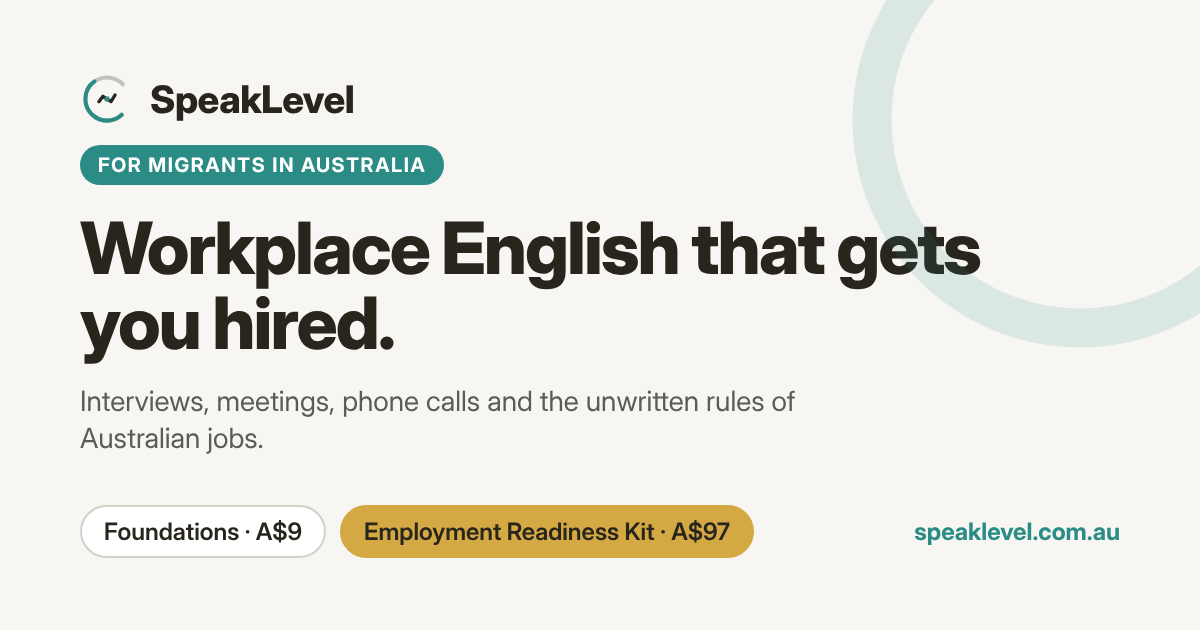
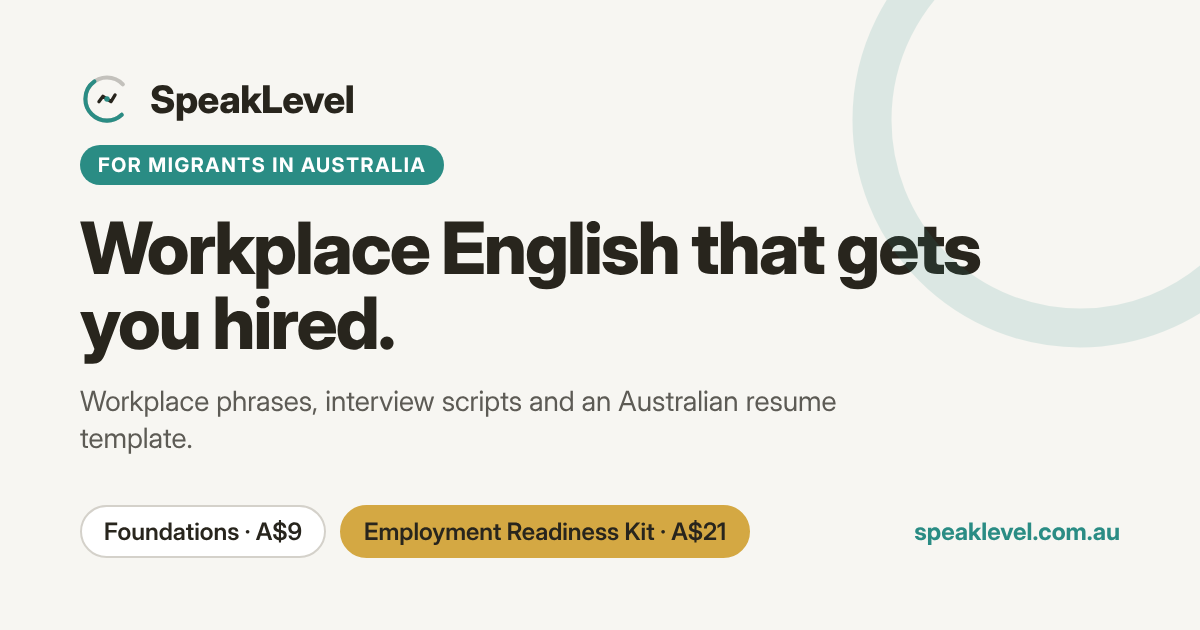
Kit price A$21; make every Kit claim match the actual PDF
- Kit price A$97 -> A$21 everywhere (buttons, chooser, pricing, schema, preview image)
- '200+ phrases' -> 50; removed slang decoder, cover letter, emails and phone-call
  claims the Kit doesn't contain; Kit page cards now mirror the PDF's sections
- Industry cards list only what the Kit covers
- Pricing comparison reframed: 'Less than one lunch break'
- Foundations: 'everyday Aussie expressions' (PDF has a short bonus, not 15)
- Softer outcome wording (no 'fairly paid' / pay-negotiation promise)

Claude-Session: https://claude.ai/code/session_018ikEPLj1QaXr9dibSqh6YW

Changed region(s): [[0.0617, 0.6032, 0.7092, 0.7238], [0.5858, 0.8143, 0.6475, 0.8746]]

diff --git a/index.html b/index.html
@@ -4,7 +4,7 @@
   <meta charset="UTF-8">
   <meta name="viewport" content="width=device-width, initial-scale=1.0">
   <title>SpeakLevel — Workplace English for Migrants in Australia</title>
-  <meta name="description" content="SpeakLevel helps migrants in Australia get job-ready with workplace English — interviews, meetings, phone calls, emails, and Australian workplace culture.">
+  <meta name="description" content="SpeakLevel helps migrants in Australia get job-ready with workplace English — 50 must-know phrases, interview scripts, an Australian resume template and a 30-day speaking challenge.">
   <link rel="canonical" href="https://speaklevel.com.au/">
   <link rel="icon" href="./favicon.svg" type="image/svg+xml">
   <link rel="icon" href="./favicon-32.png" type="image/png" sizes="32x32">
@@ -14,7 +14,7 @@
   <meta property="og:locale" content="en_AU">
   <meta property="og:type" content="website">
   <meta property="og:title" content="SpeakLevel — Workplace English for Migrants in Australia">
-  <meta property="og:description" content="Workplace English that helps migrants get hired and fairly paid in Australia — interviews, meetings, phone calls and the unwritten rules.">
+  <meta property="og:description" content="Practical workplace English for migrants in Australia — phrases, interview scripts, an Australian resume template and a 30-day speaking challenge.">
   <meta property="og:url" content="https://speaklevel.com.au/">
   <meta property="og:image" content="https://speaklevel.com.au/og-image.png">
   <meta property="og:image:width" content="1200">
@@ -22,7 +22,7 @@
   <meta property="og:image:alt" content="SpeakLevel — Workplace English for migrants in Australia">
   <meta name="twitter:card" content="summary_large_image">
   <meta name="twitter:title" content="SpeakLevel — Workplace English for Migrants in Australia">
-  <meta name="twitter:description" content="Workplace English that helps migrants get hired and fairly paid in Australia — interviews, meetings, phone calls and the unwritten rules.">
+  <meta name="twitter:description" content="Practical workplace English for migrants in Australia — phrases, interview scripts, an Australian resume template and a 30-day speaking challenge.">
   <meta name="twitter:image" content="https://speaklevel.com.au/og-image.png">
   <script>try{var t=localStorage.getItem("sl-theme");if(t==="dark"||t==="light")document.documentElement.setAttribute("data-theme",t)}catch(e){}</script>
   <link rel="stylesheet" href="https://api.fontshare.com/v2/css?f[]=cabinet-grotesk@500,700,800&f[]=satoshi@400,500,700&display=swap">
@@ -36,7 +36,7 @@
     "email": "hello@speaklevel.com.au",
     "description": "Practical workplace English resources for migrants in Australia.",
     "areaServed": "Australia",
-    "priceRange": "A$9–A$97"
+    "priceRange": "A$9–A$21"
   }
   </script>
 </head>
@@ -89,7 +89,7 @@
           <div class="hero-text">
             <span class="chip chip--teal" style="margin-bottom:var(--space-4)">For Migrants in Australia</span>
             <h1>You Speak English. But Australian Workplaces Still Feel Closed.</h1>
-            <p class="hero-sub">SpeakLevel gives you the workplace English migrants actually need — interviews, meetings, phone calls, and the unwritten rules of Australian jobs.</p>
+            <p class="hero-sub">SpeakLevel gives you the workplace English migrants actually need — for interviews, customers, team meetings and everyday conversations at work.</p>
             <div class="hero-ctas">
               <a href="https://payhip.com/b/gx4bk" target="_blank" rel="noopener noreferrer" class="btn btn--primary btn--lg">Workplace English Foundations</a>
               <a href="./kit.html" class="btn btn--amber btn--lg">Employment Readiness Kit</a>
@@ -120,7 +120,7 @@
                   <span class="hero-journey-dot hero-journey-dot--end"></span>
                   <div class="hero-journey-text">
                     <span class="hero-journey-title">In 90 days</span>
-                    <span class="hero-journey-sub">Job-ready &middot; fairly paid</span>
+                    <span class="hero-journey-sub">Job-ready &middot; applying with confidence</span>
                   </div>
                 </div>
               </div>
@@ -152,7 +152,7 @@
         <div class="section-header">
           <p class="eyebrow">Make It Personal</p>
           <h2>What Industry Are You In?</h2>
-          <p>The English you need depends on your work. Here's what the Kit helps you handle in each industry.</p>
+          <p>The English you need depends on your work. Here's how the Kit helps in each industry.</p>
         </div>
         <div class="industries-grid">
 
@@ -163,9 +163,9 @@
             <h3>Hospitality, Retail &amp; Customer Service</h3>
             <p>Cafés, restaurants, shops, call centres, front-of-house roles.</p>
             <ul class="check-list" role="list">
-              <li>Greeting customers naturally</li>
-              <li>Handling complaints calmly</li>
-              <li>Australian small-talk that builds tips</li>
+              <li>Phrases for talking to customers</li>
+              <li>Answering &ldquo;How do you handle difficult customers?&rdquo;</li>
+              <li>Greetings and starting your shift</li>
             </ul>
             <span class="industry-cta">See what&rsquo;s in the Kit <span aria-hidden="true">&rarr;</span></span>
           </a>
@@ -177,9 +177,9 @@
             <h3>Healthcare, Aged Care &amp; Disability</h3>
             <p>Nursing, support work, allied health, NDIS roles.</p>
             <ul class="check-list" role="list">
-              <li>Documenting handovers clearly</li>
-              <li>Speaking to families with care</li>
-              <li>Australian medical terminology</li>
+              <li>Example aged care resume to follow</li>
+              <li>Asking for help when you&rsquo;re unsure</li>
+              <li>Handling mistakes professionally</li>
             </ul>
             <span class="industry-cta">See what&rsquo;s in the Kit <span aria-hidden="true">&rarr;</span></span>
           </a>
@@ -191,9 +191,9 @@
             <h3>Trades, Construction &amp; Logistics</h3>
             <p>Warehousing, delivery, building, electrical, plumbing.</p>
             <ul class="check-list" role="list">
-              <li>Site safety conversations</li>
-              <li>Toolbox talks &amp; instructions</li>
+              <li>Checking you&rsquo;re doing the job right</li>
               <li>Asking for help without losing face</li>
+              <li>Interview answers about shifts &amp; availability</li>
             </ul>
             <span class="industry-cta">See what&rsquo;s in the Kit <span aria-hidden="true">&rarr;</span></span>
           </a>
@@ -236,8 +236,8 @@
 
         </div>
         <div class="try-cta-row">
-          <a href="./kit.html" class="btn btn--amber btn--lg">Get 200+ Phrases — Inside the Kit</a>
-          <p class="try-cta-sub">Real scripts for meetings, emails, phone calls, interviews, and mistakes at work.</p>
+          <a href="./kit.html" class="btn btn--amber btn--lg">See What&rsquo;s Inside the Kit</a>
+          <p class="try-cta-sub">50 must-know phrases, 10 interview scripts, a resume template and a 30-day speaking challenge.</p>
         </div>
       </div>
     </section>
@@ -269,7 +269,7 @@
             <ul class="check-list" role="list">
               <li>Scripts ready for the conversations that used to scare you</li>
               <li>Meeting language that lets you contribute</li>
-              <li>Cleaner, more confident emails</li>
+              <li>A resume ready to send</li>
             </ul>
           </div>
 
@@ -279,7 +279,7 @@
             <p class="journey-stage-mood">Taken seriously at work.</p>
             <ul class="check-list" role="list">
               <li>Interview answers that get callbacks</li>
-              <li>Negotiating pay without backing down</li>
+              <li>Applying for jobs with your own Australian-style resume</li>
               <li>Your voice in the room — every time</li>
             </ul>
           </div>
@@ -296,32 +296,31 @@
       <div class="container">
         <div class="section-header">
           <p class="eyebrow">Honest Pricing</p>
-          <h2>Less Than One Week of Coffee &amp; Lunch</h2>
-          <p>The Kit is A$97 — once. Here's what that buys you:</p>
+          <h2>Less Than One Lunch Break</h2>
+          <p>The Kit is A$21 — once. Here's what that buys you:</p>
         </div>
         <div class="cost-grid">
 
           <div class="cost-card cost-card--muted">
-            <p class="cost-label">A typical work week</p>
+            <p class="cost-label">One lunch break</p>
             <ul class="cost-list" role="list">
-              <li><span class="cost-item">5 coffees</span><span class="cost-amount">A$25</span></li>
-              <li><span class="cost-item">3 lunches out</span><span class="cost-amount">A$60</span></li>
-              <li><span class="cost-item">2 takeaways</span><span class="cost-amount">A$28</span></li>
+              <li><span class="cost-item">Lunch out</span><span class="cost-amount">A$17</span></li>
+              <li><span class="cost-item">Coffee</span><span class="cost-amount">A$5.50</span></li>
             </ul>
-            <p class="cost-total">Total: A$113 — gone in 7 days.</p>
+            <p class="cost-total">Total: A$22.50 — gone in an hour.</p>
           </div>
 
           <div class="cost-card cost-card--featured">
             <span class="chip chip--amber">One-Time Purchase</span>
             <p class="cost-label">Employment Readiness Kit</p>
             <ul class="cost-list" role="list">
-              <li><span class="cost-item">200+ workplace phrases</span><span class="cost-check">&#10003;</span></li>
+              <li><span class="cost-item">50 must-know workplace phrases</span><span class="cost-check">&#10003;</span></li>
               <li><span class="cost-item">10 interview question scripts</span><span class="cost-check">&#10003;</span></li>
               <li><span class="cost-item">30-Day Speak-Up Challenge</span><span class="cost-check">&#10003;</span></li>
-              <li><span class="cost-item">Australian resume template</span><span class="cost-check">&#10003;</span></li>
-              <li><span class="cost-item">Aussie slang &amp; culture decoder</span><span class="cost-check">&#10003;</span></li>
+              <li><span class="cost-item">Australian resume template + example</span><span class="cost-check">&#10003;</span></li>
+              <li><span class="cost-item">English level snapshot</span><span class="cost-check">&#10003;</span></li>
             </ul>
-            <p class="cost-total cost-total--featured">A$97 — yours forever.</p>
+            <p class="cost-total cost-total--featured">A$21 — yours forever.</p>
             <a href="./kit.html" class="btn btn--amber btn--full">Get the Kit Now</a>
           </div>
 
@@ -351,7 +350,7 @@
             <ul class="check-list" role="list">
               <li>50 workplace phrases for real jobs</li>
               <li>30-day listening &amp; speaking plan</li>
-              <li>15 Aussie workplace expressions, explained</li>
+              <li>Everyday Aussie expressions explained (&ldquo;arvo&rdquo;, &ldquo;no worries&rdquo;)</li>
               <li>Free resources: Fair Work, job sites, English tools</li>
               <li>Readiness checklist for interviews &amp; pay rises</li>
             </ul>
@@ -361,16 +360,16 @@
           <div class="choose-card choose-card--featured">
             <span class="chip chip--amber">Most complete</span>
             <h3>Employment Readiness Kit</h3>
-            <p class="choose-price">A$97</p>
+            <p class="choose-price">A$21</p>
             <p class="choose-for"><strong>Best if:</strong> you can hold a basic conversation and you&rsquo;re job-hunting or want to do better at work.</p>
             <ul class="check-list" role="list">
-              <li>200+ workplace phrases</li>
+              <li>50 must-know workplace phrases</li>
               <li>10 interview question scripts</li>
               <li>30-Day Speak-Up Challenge</li>
               <li>Australian resume template</li>
-              <li>Aussie slang &amp; culture decoder</li>
+              <li>English level snapshot &amp; free help list</li>
             </ul>
-            <a href="./kit.html" class="btn btn--amber btn--full">See the Kit — A$97</a>
+            <a href="./kit.html" class="btn btn--amber btn--full">See the Kit — A$21</a>
           </div>
 
         </div>

diff --git a/kit.html b/kit.html
@@ -3,8 +3,8 @@
 <head>
   <meta charset="UTF-8">
   <meta name="viewport" content="width=device-width, initial-scale=1.0">
-  <title>Employment Readiness Kit (A$97) — SpeakLevel</title>
-  <meta name="description" content="The fastest way to become job-ready in Australia. Real workplace English for migrants — interviews, meetings, phone calls, emails, and Australian culture.">
+  <title>Employment Readiness Kit (A$21) — SpeakLevel</title>
+  <meta name="description" content="A practical 12-page workbook for migrants getting job-ready in Australia: 50 workplace phrases, 10 interview scripts, a resume template and a 30-day speaking challenge.">
   <link rel="canonical" href="https://speaklevel.com.au/kit.html">
   <link rel="icon" href="./favicon.svg" type="image/svg+xml">
   <link rel="icon" href="./favicon-32.png" type="image/png" sizes="32x32">
@@ -13,16 +13,16 @@
   <meta property="og:site_name" content="SpeakLevel">
   <meta property="og:locale" content="en_AU">
   <meta property="og:type" content="product">
-  <meta property="og:title" content="Employment Readiness Kit (A$97) — SpeakLevel">
-  <meta property="og:description" content="A practical toolkit built for migrants — real workplace English, not textbook exercises. One-time A$97, instant download.">
+  <meta property="og:title" content="Employment Readiness Kit (A$21) — SpeakLevel">
+  <meta property="og:description" content="A practical toolkit built for migrants — real workplace English, not textbook exercises. One-time A$21, instant download.">
   <meta property="og:url" content="https://speaklevel.com.au/kit.html">
   <meta property="og:image" content="https://speaklevel.com.au/og-image.png">
   <meta property="og:image:width" content="1200">
   <meta property="og:image:height" content="630">
   <meta property="og:image:alt" content="SpeakLevel — Workplace English for migrants in Australia">
   <meta name="twitter:card" content="summary_large_image">
-  <meta name="twitter:title" content="Employment Readiness Kit (A$97) — SpeakLevel">
-  <meta name="twitter:description" content="A practical toolkit built for migrants — real workplace English, not textbook exercises. One-time A$97, instant download.">
+  <meta name="twitter:title" content="Employment Readiness Kit (A$21) — SpeakLevel">
+  <meta name="twitter:description" content="A practical toolkit built for migrants — real workplace English, not textbook exercises. One-time A$21, instant download.">
   <meta name="twitter:image" content="https://speaklevel.com.au/og-image.png">
   <script>try{var t=localStorage.getItem("sl-theme");if(t==="dark"||t==="light")document.documentElement.setAttribute("data-theme",t)}catch(e){}</script>
   <link rel="stylesheet" href="https://api.fontshare.com/v2/css?f[]=cabinet-grotesk@500,700,800&f[]=satoshi@400,500,700&display=swap">
@@ -32,11 +32,11 @@
     "@context": "https://schema.org",
     "@type": "Product",
     "name": "Employment Readiness Kit",
-    "description": "Practical toolkit for migrants in Australia — real workplace English covering interviews, meetings, phone calls, emails, and Australian culture.",
+    "description": "Practical toolkit for migrants in Australia — a 12-page workbook with 50 workplace phrases, 10 interview scripts, a resume template and a 30-day speaking challenge.",
     "brand": { "@type": "Brand", "name": "SpeakLevel" },
     "offers": {
       "@type": "Offer",
-      "price": "97.00",
+      "price": "21.00",
       "priceCurrency": "AUD",
       "availability": "https://schema.org/InStock",
       "url": "https://payhip.com/b/awrBp"
@@ -91,7 +91,7 @@
         <p class="eyebrow" style="text-align:center">Employment Readiness Kit</p>
         <h1>The Fastest Way to Become Job-Ready in Australia</h1>
         <p class="sub">A practical toolkit built for migrants — real workplace English, not textbook exercises.</p>
-        <a href="https://payhip.com/b/awrBp" target="_blank" rel="noopener noreferrer" class="btn btn--amber btn--lg">Get the Kit — A$97</a>
+        <a href="https://payhip.com/b/awrBp" target="_blank" rel="noopener noreferrer" class="btn btn--amber btn--lg">Get the Kit — A$21</a>
         <p class="below-cta">Instant download. One-time payment. Built for migrants in Australia.</p>
       </div>
     </section>
@@ -106,8 +106,8 @@
           <li>You have a working level of English (you can hold a basic conversation)</li>
           <li>You're job-hunting or want to improve at work</li>
           <li>You want practical tools, not grammar theory</li>
-          <li>You need to sound confident in meetings, calls, and emails</li>
-          <li>You want to understand Australian workplace culture</li>
+          <li>You want to sound confident with customers, in meetings and in interviews</li>
+          <li>You want a resume that looks right to Australian employers</li>
         </ul>
       </div>
     </section>
@@ -124,24 +124,24 @@
             <div class="icon-wrap">
               <svg viewBox="0 0 24 24" fill="none" stroke="currentColor" stroke-width="2" stroke-linecap="round" stroke-linejoin="round"><path d="M21 15a2 2 0 01-2 2H7l-4 4V5a2 2 0 012-2h14a2 2 0 012 2z"/></svg>
             </div>
-            <h3>Workplace Conversations</h3>
-            <p>Scripts for real scenarios: meetings, emails, phone calls, disagreements.</p>
+            <h3>50 Must-Know Workplace Phrases</h3>
+            <p>Greetings, asking for help, talking to customers, meetings and team talk &mdash; with a tip for each one.</p>
           </div>
           <!-- 2 -->
           <div class="card kit-feature-card">
             <div class="icon-wrap">
               <svg viewBox="0 0 24 24" fill="none" stroke="currentColor" stroke-width="2" stroke-linecap="round" stroke-linejoin="round"><path d="M16 21v-2a4 4 0 00-4-4H5a4 4 0 00-4 4v2"/><circle cx="8.5" cy="7" r="4"/><line x1="20" y1="8" x2="20" y2="14"/><line x1="23" y1="11" x2="17" y2="11"/></svg>
             </div>
-            <h3>Interview Prep</h3>
-            <p>Answer frameworks for common Australian interview questions. With example answers.</p>
+            <h3>10 Interview Scripts</h3>
+            <p>Real questions Australian employers ask, each with a model answer and tips to make it your own.</p>
           </div>
           <!-- 3 -->
           <div class="card kit-feature-card">
             <div class="icon-wrap">
               <svg viewBox="0 0 24 24" fill="none" stroke="currentColor" stroke-width="2" stroke-linecap="round" stroke-linejoin="round"><circle cx="12" cy="12" r="10"/><line x1="2" y1="12" x2="22" y2="12"/><path d="M12 2a15.3 15.3 0 014 10 15.3 15.3 0 01-4 10 15.3 15.3 0 01-4-10 15.3 15.3 0 014-10z"/></svg>
             </div>
-            <h3>Australian Workplace Culture</h3>
-            <p>Unwritten rules, communication norms, and how to read the room.</p>
+            <h3>Your English Level Snapshot</h3>
+            <p>Find your level in plain language, see which jobs match it, and know which section to start with.</p>
           </div>
           <!-- 4 -->
           <div class="card kit-feature-card">
@@ -149,23 +149,23 @@
               <svg viewBox="0 0 24 24" fill="none" stroke="currentColor" stroke-width="2" stroke-linecap="round" stroke-linejoin="round"><path d="M12 22s8-4 8-10V5l-8-3-8 3v7c0 6 8 10 8 10z"/></svg>
             </div>
             <h3>Handling Mistakes at Work</h3>
-            <p>What to say when things go wrong. Graceful, professional, confident.</p>
+            <p>Ten calm, professional phrases for when things go wrong &mdash; part of the 50 phrases.</p>
           </div>
           <!-- 5 -->
           <div class="card kit-feature-card">
             <div class="icon-wrap">
               <svg viewBox="0 0 24 24" fill="none" stroke="currentColor" stroke-width="2" stroke-linecap="round" stroke-linejoin="round"><path d="M4 19.5A2.5 2.5 0 016.5 17H20"/><path d="M6.5 2H20v20H6.5A2.5 2.5 0 014 19.5v-15A2.5 2.5 0 016.5 2z"/></svg>
             </div>
-            <h3>Aussie Slang Guide</h3>
-            <p>The phrases your manager uses that aren't in any dictionary.</p>
+            <h3>30-Day Speak-Up Challenge</h3>
+            <p>5&ndash;15 minutes a day: practise, record yourself, do mock interviews, then apply for jobs.</p>
           </div>
           <!-- 6 -->
           <div class="card kit-feature-card">
             <div class="icon-wrap">
               <svg viewBox="0 0 24 24" fill="none" stroke="currentColor" stroke-width="2" stroke-linecap="round" stroke-linejoin="round"><path d="M14 2H6a2 2 0 00-2 2v16a2 2 0 002 2h12a2 2 0 002-2V8z"/><polyline points="14 2 14 8 20 8"/><line x1="16" y1="13" x2="8" y2="13"/><line x1="16" y1="17" x2="8" y2="17"/><polyline points="10 9 9 9 8 9"/></svg>
             </div>
-            <h3>Resume &amp; Cover Letter Guide</h3>
-            <p>Australian resume format, common mistakes migrants make, template.</p>
+            <h3>Australian Resume Template</h3>
+            <p>A fill-in template, a full example resume, what employers look for and common mistakes to avoid.</p>
           </div>
         </div>
       </div>
@@ -174,9 +174,9 @@
     <!-- ===== PRICING ===== -->
     <section class="kit-pricing section-padding">
       <div class="container container--narrow">
-        <p class="big-price">A$97</p>
-        <p class="price-desc">One-time purchase. No subscription. Instant PDF download.</p>
-        <a href="https://payhip.com/b/awrBp" target="_blank" rel="noopener noreferrer" class="btn btn--amber btn--lg">Get the Kit Now — A$97</a>
+        <p class="big-price">A$21</p>
+        <p class="price-desc">One-time purchase. No subscription. Instant download: a 12-page PDF workbook.</p>
+        <a href="https://payhip.com/b/awrBp" target="_blank" rel="noopener noreferrer" class="btn btn--amber btn--lg">Get the Kit Now — A$21</a>
         <p class="secure-note">Secure checkout via Payhip. Instant access after payment.</p>
         <div class="trust-badges">
           <span class="trust-badge">Instant Download</span>
@@ -244,7 +244,7 @@
         <h2>Ready to Get Job-Ready?</h2>
         <p>Go straight to the Kit, or start smaller with Workplace English Foundations. Your next step is one click away.</p>
         <div class="final-cta-buttons">
-          <a href="https://payhip.com/b/awrBp" target="_blank" rel="noopener noreferrer" class="btn btn--amber btn--lg">Get the Kit — A$97</a>
+          <a href="https://payhip.com/b/awrBp" target="_blank" rel="noopener noreferrer" class="btn btn--amber btn--lg">Get the Kit — A$21</a>
           <a href="https://payhip.com/b/gx4bk" target="_blank" rel="noopener noreferrer" class="btn btn--outline btn--lg">Workplace English Foundations&nbsp;&mdash;&nbsp;A$9</a>
         </div>
       </div>
